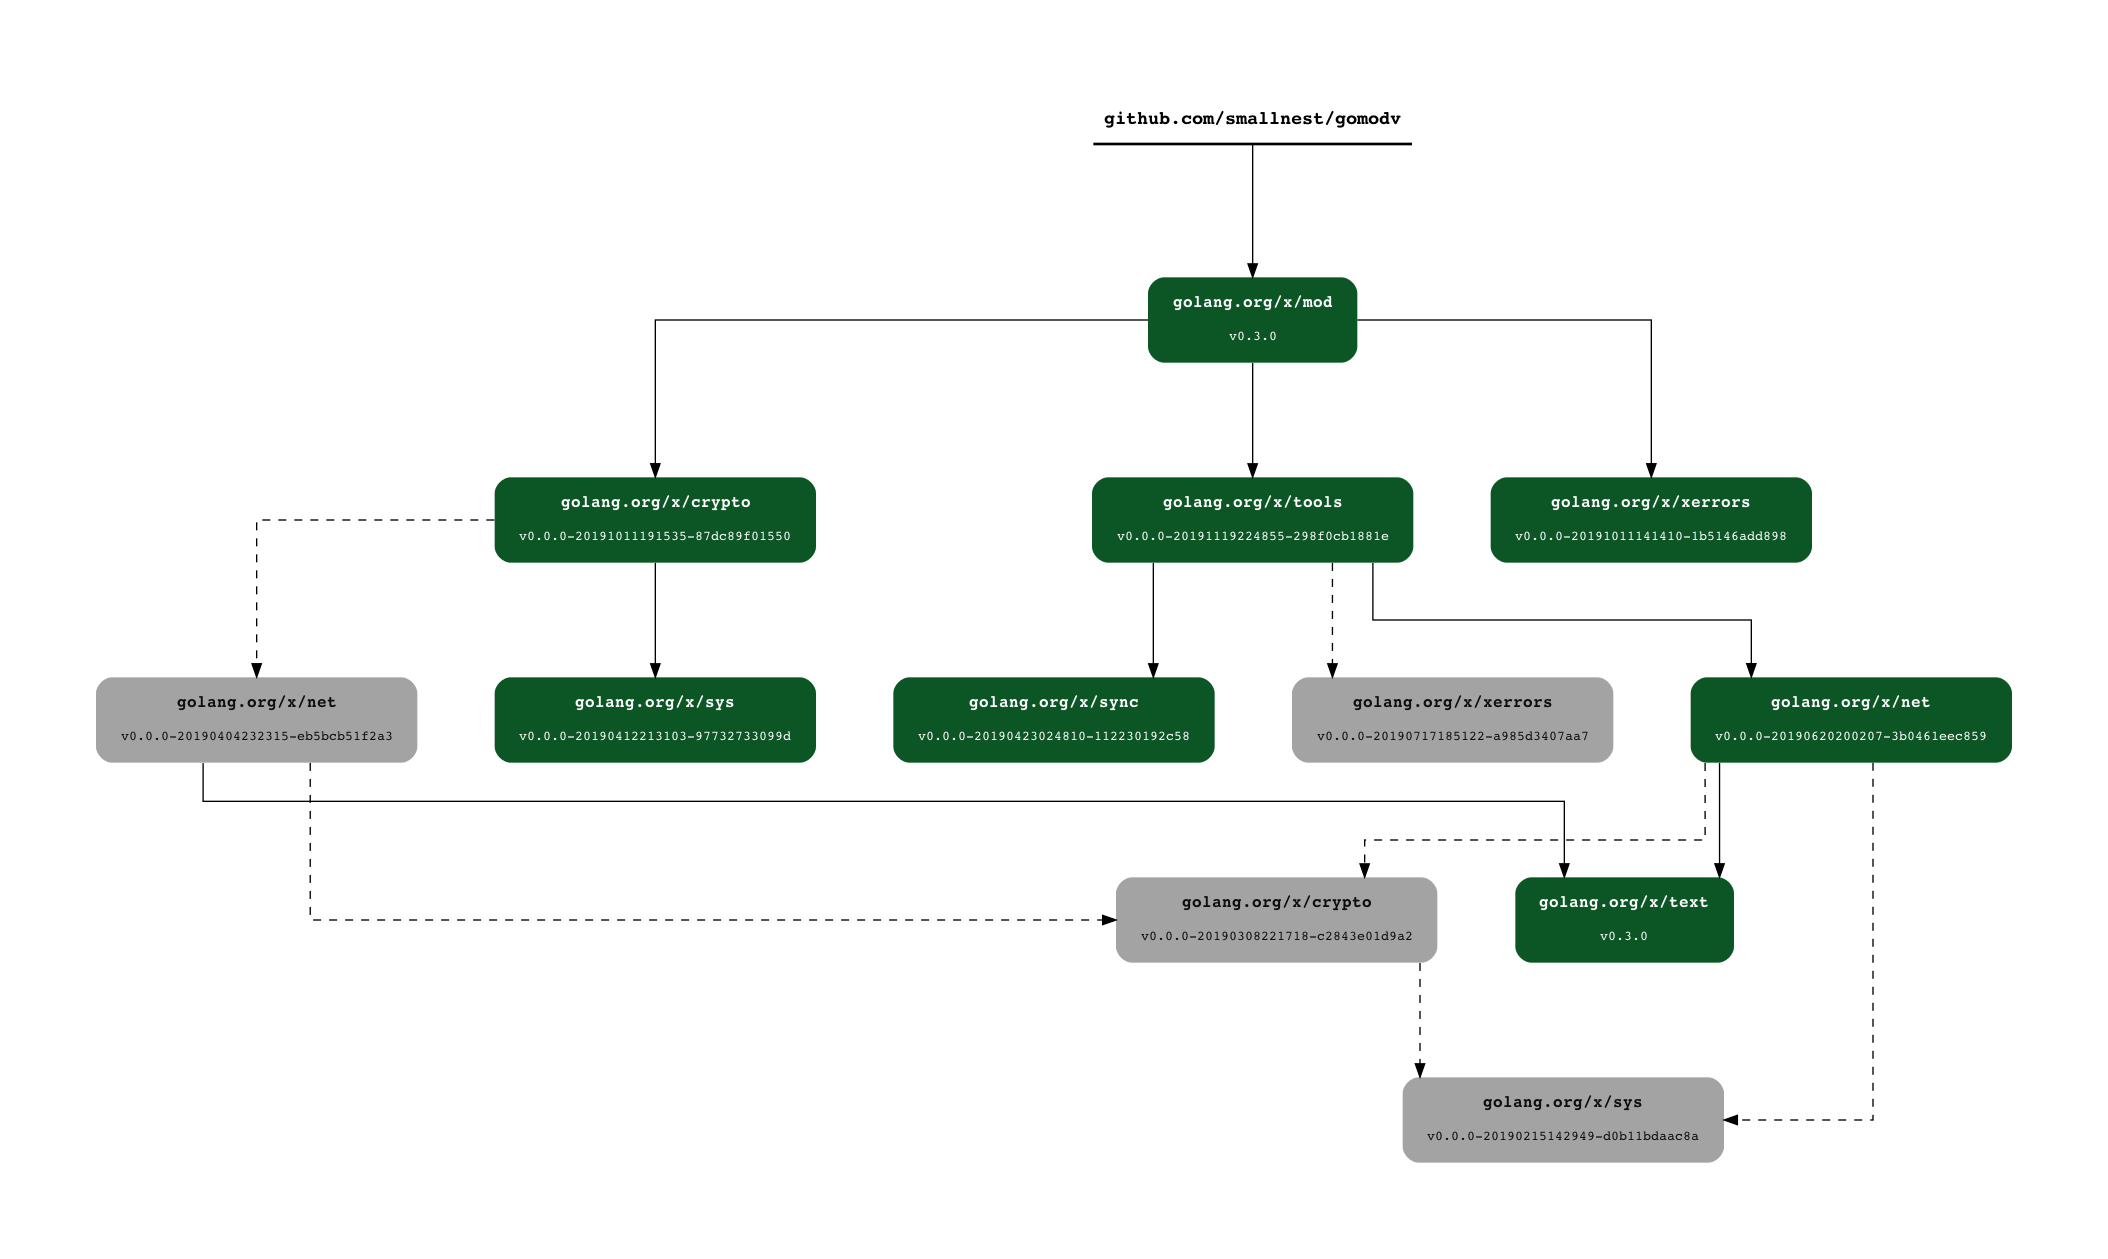
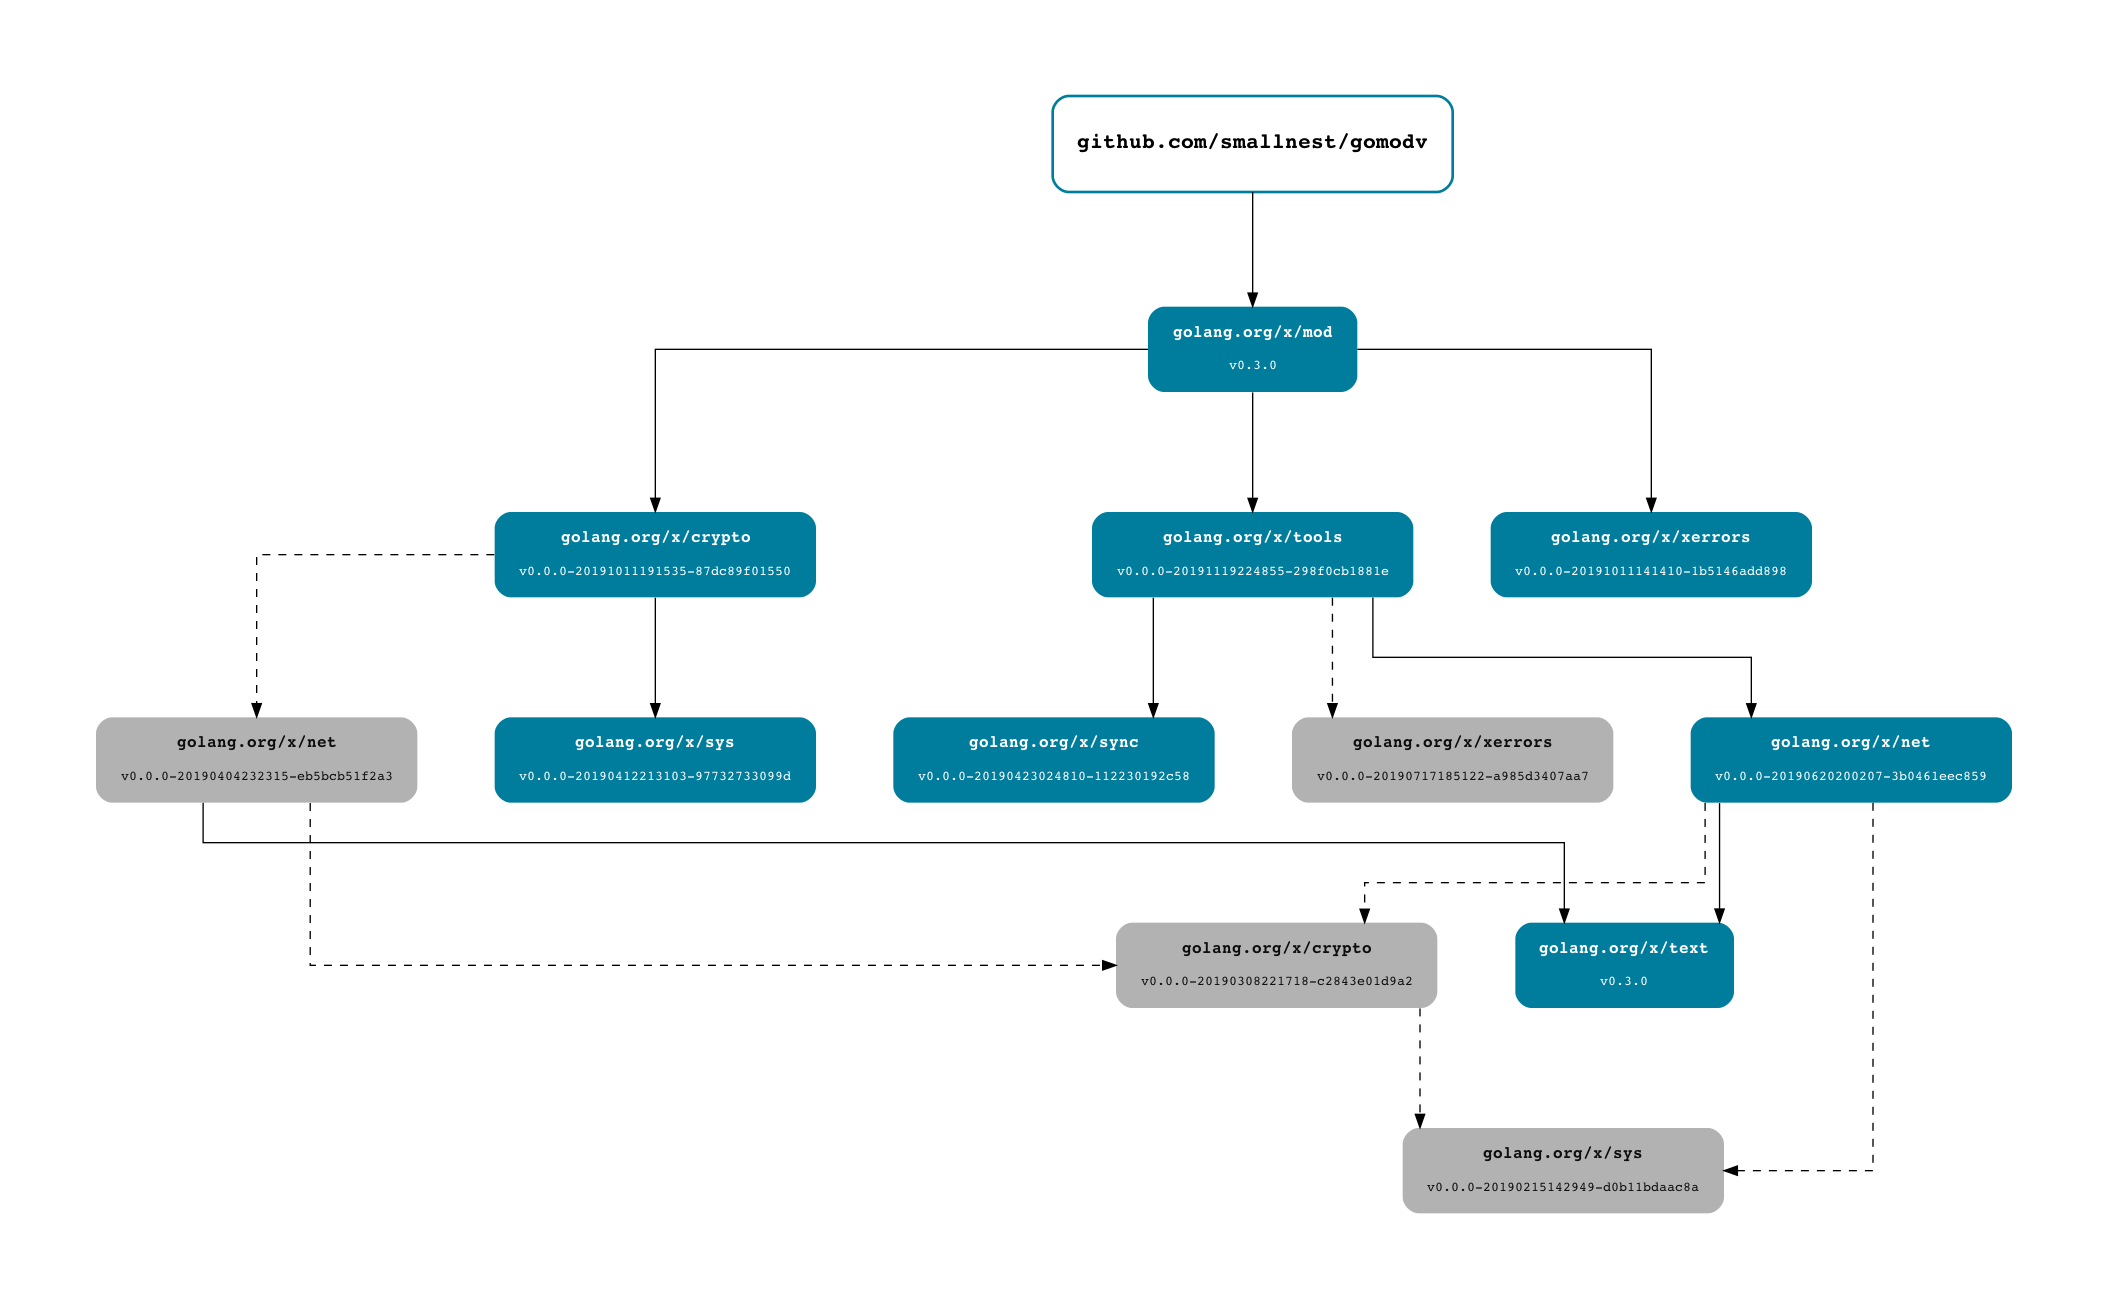
modify style

diff --git a/render.go b/render.go
@@ -28,13 +28,13 @@ func render(in io.Reader, out io.Writer) error {
 	fmt.Fprintf(out, "\tnodesep=\"0.8\";\n")
 	fmt.Fprintf(out, "\tnode [shape=plaintext style=\"filled,rounded\" penwidth=2 fontsize=12 fontname=\"monospace\"];\n")
 
-	fmt.Fprintf(out, "\t%q [shape=underline style=\"\" fontsize=14 label=<<b>%s</b>>];\n", graph.root, graph.root)
+	fmt.Fprintf(out, "\t%q [color=\"#007d9c\" shape=box height=1 style=\"rounded\" fontsize=16 label=<<b>%s</b>>];\n", graph.root, rootToHTML(graph.root, "#000000"))
 
 	for _, n := range graph.mvsPicked {
-		fmt.Fprintf(out, "\t%q [fillcolor=\"#0c5525\" label=<%s>];\n", n, textToHTML(n, "#fafafa"))
+		fmt.Fprintf(out, "\t%q [fillcolor=\"#007d9c\" label=<%s>];\n", n, textToHTML(n, "#ffffff"))
 	}
 	for _, n := range graph.mvsUnpicked {
-		fmt.Fprintf(out, "\t%q [fillcolor=\"#a3a3a3\" label=<%s>];\n", n, textToHTML(n, "#0e0e0e"))
+		fmt.Fprintf(out, "\t%q [fillcolor=\"#b2b2b2\" label=<%s>];\n", n, textToHTML(n, "#0e0e0e"))
 	}
 	out.Write(edgesAsDOT(graph))
 
@@ -56,8 +56,6 @@ func edgesAsDOT(gr *graph) []byte {
 	return buf.Bytes()
 }
 
-// textToHTML converts the line with module@version
-// in a colored HTML table
 func textToHTML(line string, color string) string {
 	var mod, ver string
 	if i := strings.IndexByte(line, '@'); i >= 0 {
@@ -87,6 +85,19 @@ func textToHTML(line string, color string) string {
 		sb.WriteString(ver)
 		sb.WriteString("</font></td></tr>")
 	}
+	sb.WriteString("</table>")
+
+	return sb.String()
+}
+
+func rootToHTML(root string, color string) string {
+	var sb strings.Builder
+	sb.WriteString(`<table border="0" cellspacing="8" >`)
+	sb.WriteString(`<tr><td><font color="`)
+	sb.WriteString(color)
+	sb.WriteString(`"><b>`)
+	sb.WriteString(root)
+	sb.WriteString("</b></font></td></tr>")
 	sb.WriteString("</table>")
 
 	return sb.String()
